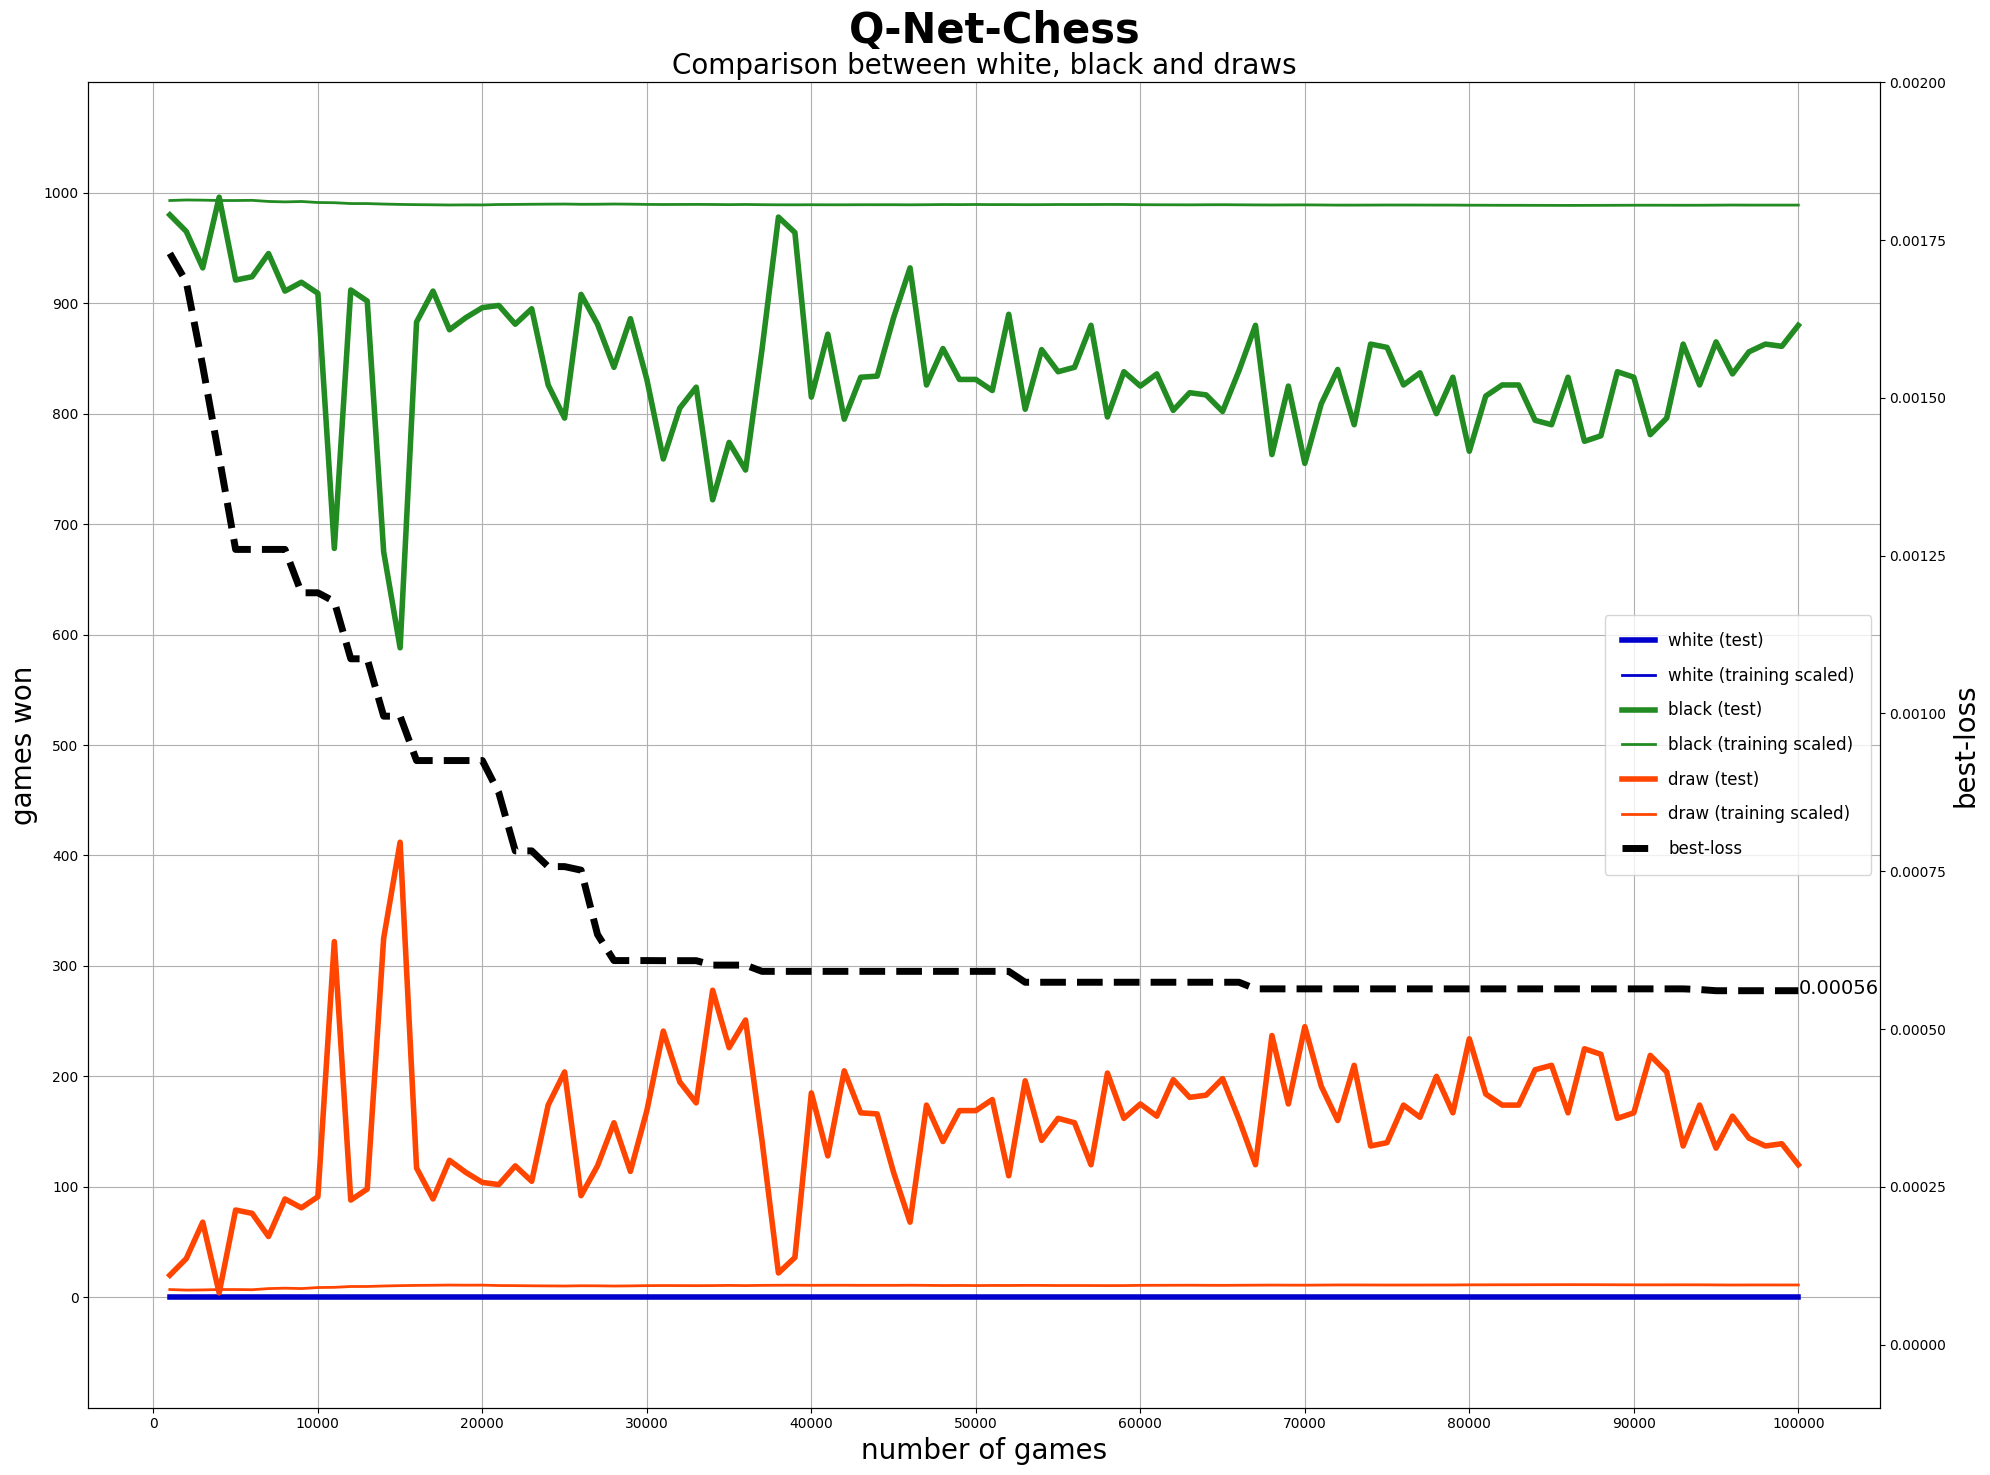
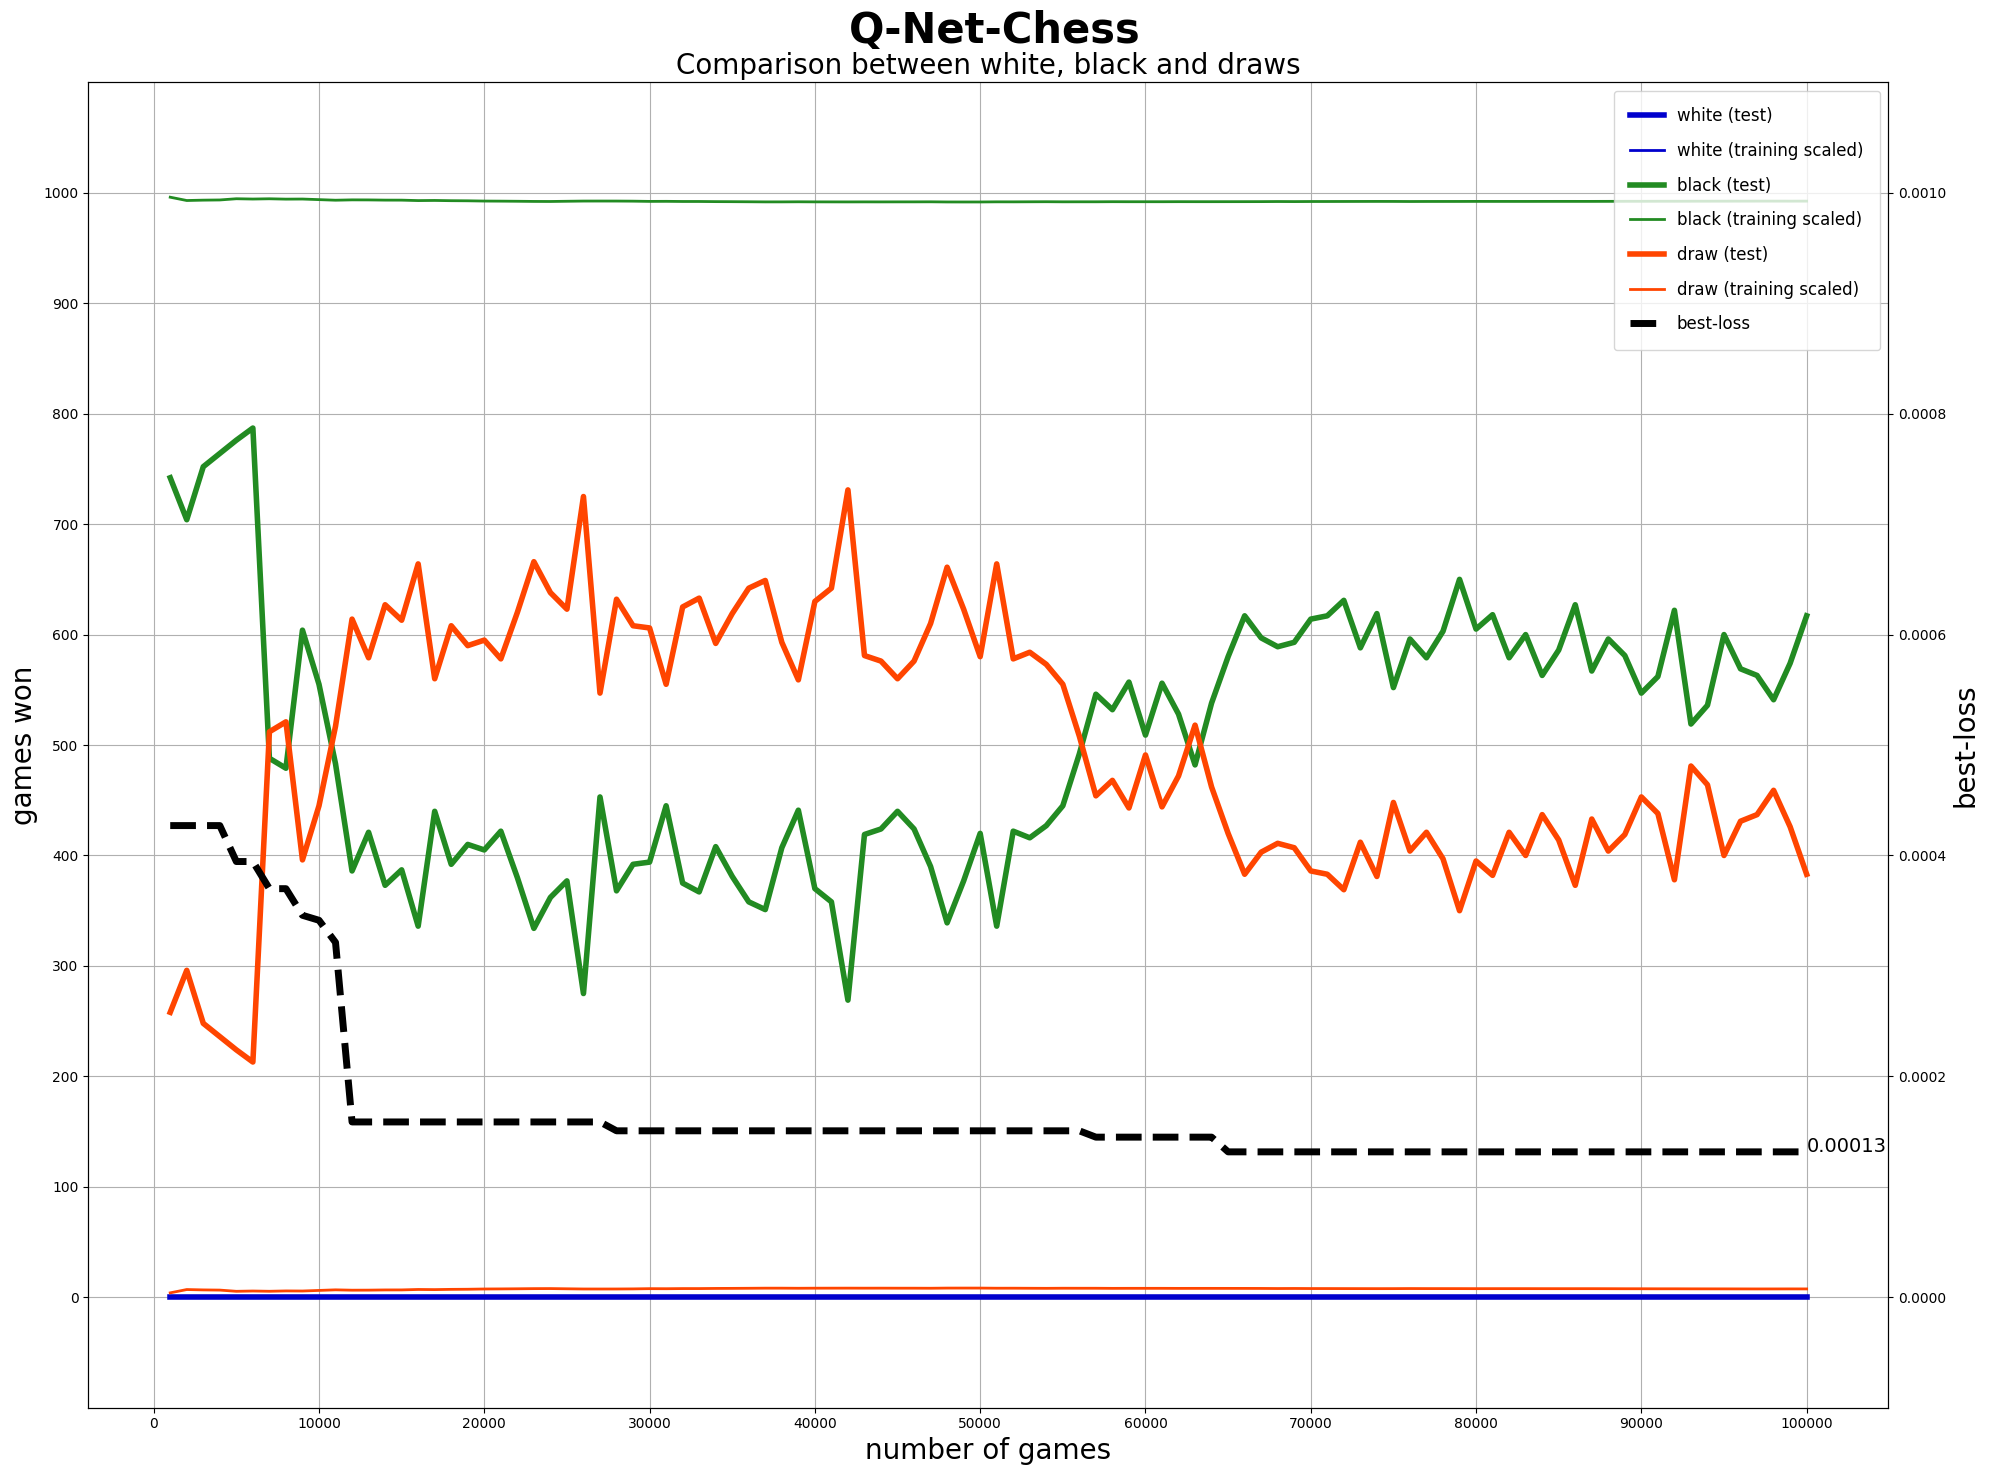
Q-net chess: newest run with reduced chess engine depth

diff --git a/src/rl/chess_with_q_net.py b/src/rl/chess_with_q_net.py
@@ -117,7 +117,7 @@ if __name__ == "__main__":
     if os.path.isfile(file_name):
         os.remove(file_name)
     with open(file_name, 'a') as f:
-        f.write("#of-trainings\tp1-training-won\tp2-training-won\tdraw-training\t#of-test-games\tp1-test-won\tp2-test-won\tdraw-test\tbest-loss\taverage-rounds-played\tduration\n")
+        f.write("#of-trainings\tp1-training-won\tp2-training-won\tdraw-training\t#of-test-games\tp1-test-won\tp2-test-won\tdraw-test\tbest-loss\taverage-rounds-played\tduration\tpromotions\n")
 
     games_training = {"draw": 0, "white": 0, "black": 0}
 
@@ -131,6 +131,7 @@ if __name__ == "__main__":
     start_episode = time.time()
 
     rounds_training_total = 0
+    promotions = 0
 
     for episode_training in range(1, EPISODES_TRAIN+1):
 
@@ -142,6 +143,8 @@ if __name__ == "__main__":
 
         while not board.is_checkmate() and not board.is_stalemate() and not board.is_fifty_moves() and not board.is_fivefold_repetition() and not insufficient_material:
             action_from_white, action_to_white, promotion, reward_after_white_move = utils.select_action(env, board, eps_threshold,True, q_net.policy_net, True)
+            if promotion != 0:
+                promotions += 1
             action_from_str, action_to_str = utils.get_actions(action_from_white, action_to_white, promotion)
             state_table_before = utils.board_to_array(board)
             utils.play_and_print(board, rounds_training, "white", action_from_str, action_to_str)
@@ -258,13 +261,15 @@ if __name__ == "__main__":
             print(f"duration: {(end - start_training):0.1f}s")
 
             with open(file_name, 'a') as f:
-                f.write(f"{episode_training}\t{games_training['white']}\t{games_training['black']}\t{games_training['draw']}\t{EPISODES_TEST}\t{games_test['white']}\t{games_test['black']}\t{games_test['draw']}\t{best_loss}\t{(rounds_test_total/EPISODES_TEST):0.1f}\t{(end - start_training):0.1f}\n")
+                f.write(f"{episode_training}\t{games_training['white']}\t{games_training['black']}\t{games_training['draw']}\t{EPISODES_TEST}\t{games_test['white']}\t{games_test['black']}\t{games_test['draw']}\t{best_loss}\t{(rounds_test_total/EPISODES_TEST):0.1f}\t{(end - start_training):0.1f}\t{promotions}\n")
 
+            promotions = 0
             start_episode = time.time()
 
     torch.save(q_net.target_net.state_dict(), os.path.join("src", "rl", "chess.pth"))
 
     print(reasons)
+    print(f"promotions: {promotions}")
 
     print("-----------------------------")
     print("RL training end ***")

diff --git a/src/rl/chess_with_q_net_utilities.py b/src/rl/chess_with_q_net_utilities.py
@@ -185,7 +185,7 @@ def select_action(env, board, eps_threshold, is_white, model, is_training):
     legal_moves_fen = get_valid_positions(board.fen())
     before = board_to_array(board)
     if not is_white:
-        result = env.play(board, chess.engine.Limit(time=0.1, depth=20))
+        result = env.play(board, chess.engine.Limit(time=0.1, depth=10))
         new_board = chess.Board()
         new_board.set_fen(board.fen())
         new_board.push(result.move)
@@ -218,42 +218,11 @@ def select_action(env, board, eps_threshold, is_white, model, is_training):
         raise Exception("no valid move found")
 
 
-def select_action_q_table(env, board, eps_threshold, is_white, q_table, is_training):
-    legal_moves_fen = get_valid_positions(board.fen())
-    before = board_to_array(board)
-    if not is_white:
-        result = env.play(board, chess.engine.Limit(time=0.1, depth=20))
-        new_board = chess.Board()
-        new_board.set_fen(board.fen())
-        new_board.push(result.move)
-        after = board_to_array(new_board)
-        return evaluate_moves(before, after)
-    elif is_training and random.random() < eps_threshold:
-        index = random.randint(0, len(legal_moves_fen) - 1)
-        after = board_to_array(chess.Board(legal_moves_fen[index]))
-        return evaluate_moves(before, after)
-    else:
-        max_val = float('-inf')
-        next_move_to = []
-        next_move_from = []
-        next_promotion = 0
-        for legal_move in legal_moves_fen:
-            after = board_to_array(chess.Board(legal_move))
-            move_from, move_to, promotion, _ = evaluate_moves(before, after)
-            value = 0 if q_table.get(str(after)) is None else q_table.get(str(after))
-            if value > max_val:
-                max_val = value
-                next_move_to = move_to
-                next_move_from = move_from
-                next_promotion = promotion
-        return next_move_from, next_move_to, next_promotion, 0,0
-
-
 def get_actions(action_from, action_to, promotion_index):
     action_from = action_from[0].item()
     action_to = action_to[0].item()
     if promotion_index != 0:
-        promotion = promotion_labels[promotion_index]
+        promotion = promotion_labels[5]
     else:
         promotion = ''
     action_from = letters[action_from % 8] + str(8 - action_from // 8)

diff --git a/src/rl/rl-analysis.py b/src/rl/rl-analysis.py
@@ -31,7 +31,7 @@ def draw_dataframe(name, title, best_loss_scaler, chess):
 
     if best_loss_scaler is not None:
         if chess:
-            axes2.set_ylim([-0.0001, 0.002])
+            axes2.set_ylim([-0.0001, 0.0011])
         else:
             axes2.set_ylim([-1, 11])
 
@@ -41,9 +41,11 @@ def draw_dataframe(name, title, best_loss_scaler, chess):
         sns.lineplot(y=df['best-loss']*best_loss_scaler, x=df['#of-trainings'], ax=axes, color=colors['black'], linestyle='dashed', lw=5, label="best-loss")
         axes2.tick_params(axis='y', labelcolor=colors['black'])
         axes2.set_ylabel("best-loss", fontsize=20, color=colors['black'])
+        axes.legend(borderpad=1, labelspacing=1, prop={'size': 12}, loc='upper right')
     else:
         axes2.set_ylim([-0.1, 1.1])
         axes2.set_ylabel("percent", fontsize=20, color=colors['black'])
+        axes.legend(borderpad=1, labelspacing=1, prop={'size': 12}, loc='center right')
 
     axes.set_ylim([-100, 1100])
     axes.set_ylabel("games won", fontsize=20)
@@ -52,7 +54,6 @@ def draw_dataframe(name, title, best_loss_scaler, chess):
     axes.set_xlabel("number of games", fontsize=20)
     plt.suptitle(title, fontsize=30, fontweight='bold')
     plt.title("Comparison between " + player_1 + ", " + player_2 + " and draws", fontsize=20)
-    axes.legend(borderpad=1, labelspacing=1, prop={'size': 12}, loc='center right')
 
     plt.tight_layout()
     #plt.show()
@@ -101,5 +102,5 @@ def draw_optimizer_loss_function_statistics():
 
 draw_dataframe("tic-tac-toe-statistics-q-table", "Q-Table-Tic-Tac-Toe", None, False)
 draw_dataframe("tic-tac-toe-statistics-q-net", "Q-Net-Tic-Tac-Toe", 100, False)
-draw_dataframe("chess-statistics-q-net-3-layer", "Q-Net-Chess", 500000, True)
+draw_dataframe("chess-statistics-q-net-3-layer", "Q-Net-Chess", 1000000, True)
 draw_optimizer_loss_function_statistics()
